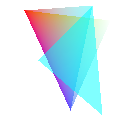
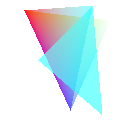
fixed color 4 rasterizer

Changed region(s): [[0.325, 0.1, 0.75, 0.7]]

diff --git a/MP1_Rasterizer/rasterizer.py b/MP1_Rasterizer/rasterizer.py
@@ -167,6 +167,35 @@ def mult_matrix(a, b):
 
     return result
 
+def srgbToLinear(sRGB):
+    for i in range(3):
+        if(sRGB[i] <= 1 and sRGB[i] >= 0):
+            if(sRGB[i] <= 0.04045):
+                sRGB[i] /= 12.92
+            else:
+                sRGB[i] = ((sRGB[i] + 0.055)/1.055)**2.4
+        if sRGB[i] > 1:
+            sRGB[i] = 1
+        elif sRGB[i] < 0:
+            sRGB[i] = 0
+    
+    return sRGB
+
+def linearToSRGB(linear):
+    for i in range(3):
+        if(linear[i] <= 1 and linear[i] >= 0):
+            if(linear[i] <= 0.0031308):
+                linear[i] *= 12.92
+            else:
+                linear[i] = 1.055*linear[i]**(1/2.4) - 0.055
+        if linear[i] > 1:
+            linear[i] = 1
+        elif linear[i] < 0:
+            linear[i] = 0
+    
+    return linear
+
+
 # ((x/w+1)*width/2, (y/w+1)*height/2)
 # width = 20
 # height = 30
@@ -318,7 +347,6 @@ with open(sys.argv[1], 'r') as filename:
                             
                         # print("new xyzw: ", x,y,z,w)
 
-
                     pointsToDraw.append([(x/w+1)*width/2, (y/w+1)*height/2, z/w, 1/w])
 
                 print("positionsToDraw: ", positionsToDraw)
@@ -355,8 +383,6 @@ with open(sys.argv[1], 'r') as filename:
 
                 pixelsToDraw += scanline_algo(a, b, c)
 
-                # currPixels = []
-
                 for pixel in pixelsToDraw:
                     x = pixel[0]
                     y = pixel[1]
@@ -368,16 +394,8 @@ with open(sys.argv[1], 'r') as filename:
                         if hyp:
                             pixel[i] /= w # divide rgb by interpolated 1/w
                             
-                        if sRGB:
-                            if(pixel[i] <= 1 and pixel[i] >= 0):
-                                if(pixel[i] <= 0.0031308):
-                                    pixel[i] *= 12.92
-                                else:
-                                    pixel[i] = 1.055*pixel[i]**(1/2.4) - 0.055
-                            if pixel[i] > 1:
-                                pixel[i] = 1
-                            elif pixel[i] < 0:
-                                pixel[i] = 0
+                    if sRGB:
+                        pixel[4:7] = linearToSRGB(pixel[4:7])
                     # print("new color rgb: ", pixel[4:7])
 
                     if(-width < x < width and -height < y < height):
@@ -386,17 +404,23 @@ with open(sys.argv[1], 'r') as filename:
 
                         if(existingPos):
                             if(existingPos[0][2] >= z):
-                                d_rgba = existingPos[0][4:]
-                                s_rgba = pixel[4:]
+                                d_rgba = srgbToLinear(existingPos[0][4:])
+                                s_rgba = srgbToLinear(pixel[4:])
                                 new_rgba = []
 
                                 new_a = s_rgba[3] + d_rgba[3]*(1 - s_rgba[3])
+                                # print("s_rgba[3], d_rgba[3]: ", s_rgba[3]*255, d_rgba[3]*255)
+                                # print("new_a: ", new_a*255)
 
                                 for i in range(3):
                                     new_rgba += [(s_rgba[3]/new_a)*s_rgba[i] + (((1 - s_rgba[3])*d_rgba[3])/new_a)*d_rgba[i]]
+                                    # print("(s_rgba[3]/new_a)*s_rgba[i]: ", (s_rgba[3]/new_a)*s_rgba[i])
                                 
                                 new_rgba += [new_a]
 
+                                new_rgba = linearToSRGB(new_rgba)
+                                # print("new_rgba: ", new_rgba[0]*255,new_rgba[1]*255,new_rgba[2]*255,new_rgba[3]*255)
+                                
                                 r = new_rgba[0]
                                 g = new_rgba[1]
                                 b = new_rgba[2]
@@ -504,17 +528,9 @@ with open(sys.argv[1], 'r') as filename:
                     for i in range(4,7):
                         if hyp:
                             pixel[i] /= w # divide rgb by interpolated 1/w
-                            
-                        if sRGB:
-                            if(pixel[i] <= 1 and pixel[i] >= 0):
-                                if(pixel[i] <= 0.0031308):
-                                    pixel[i] *= 12.92
-                                else:
-                                    pixel[i] = 1.055*pixel[i]**(1/2.4) - 0.055
-                            if pixel[i] > 1:
-                                pixel[i] = 1
-                            elif pixel[i] < 0:
-                                pixel[i] = 0
+
+                    if sRGB:
+                        pixel[4:7] = linearToSRGB(pixel[4:7])
                     # print("new color rgb: ", pixel[4:7])
 
                     if(-width < x < width and -height < y < height):
@@ -523,8 +539,8 @@ with open(sys.argv[1], 'r') as filename:
 
                         if(existingPos):
                             if(existingPos[0][2] >= z):
-                                d_rgba = existingPos[0][4:]
-                                s_rgba = pixel[4:]
+                                d_rgba = srgbToLinear(existingPos[0][4:])
+                                s_rgba = srgbToLinear(pixel[4:])
                                 new_rgba = []
 
                                 new_a = s_rgba[3] + d_rgba[3]*(1 - s_rgba[3])
@@ -533,10 +549,12 @@ with open(sys.argv[1], 'r') as filename:
 
                                 for i in range(3):
                                     new_rgba += [(s_rgba[3]/new_a)*s_rgba[i] + (((1 - s_rgba[3])*d_rgba[3])/new_a)*d_rgba[i]]
-                                    print("(s_rgba[3]/new_a)*s_rgba[i]: ", (s_rgba[3]/new_a)*s_rgba[i])
+                                    # print("(s_rgba[3]/new_a)*s_rgba[i]: ", (s_rgba[3]/new_a)*s_rgba[i])
                                 
                                 new_rgba += [new_a]
-                                print("new_rgba: ", new_rgba[0]*255,new_rgba[1]*255,new_rgba[2]*255,new_rgba[3]*255)
+
+                                new_rgba = linearToSRGB(new_rgba)
+                                # print("new_rgba: ", new_rgba[0]*255,new_rgba[1]*255,new_rgba[2]*255,new_rgba[3]*255)
                                 
                                 r = new_rgba[0]
                                 g = new_rgba[1]
